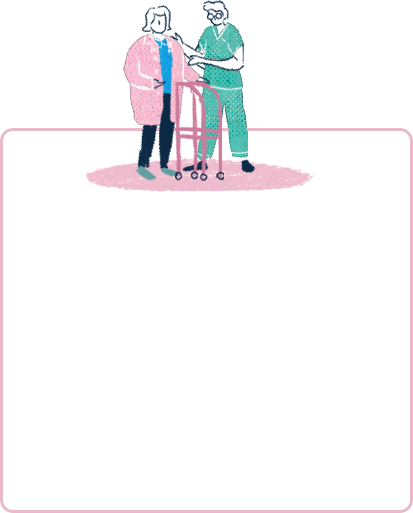
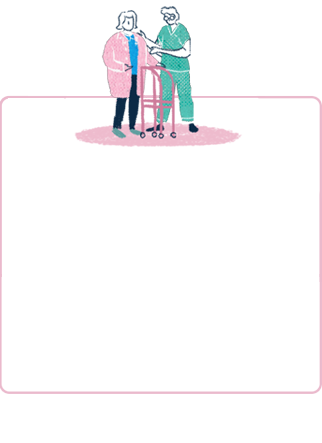
Avances SICBA descripcion-sicba.html

Changed region(s): [[0.0, 0.0, 1.0, 0.3815], [0.0, 0.6163, 1.0, 1.0]]

diff --git a/unlogged/descripcion-sicba.html b/unlogged/descripcion-sicba.html
@@ -86,31 +86,47 @@
         #definicion-cuidado{
             width: 350px
         }
-        .titulo_descripcion {font-weight: bold; font-size: 1.5em; }
-        .texto_descripcion {line-height: 1.4em; margin-top: 20px;}
+        .titulo_descripcion {font-weight: bold; font-size: 1.5em; }a
+        .texto_descripcion {line-height: 1.4em; }
         #sistema .titulo_descripcion { color: #3a4c9b; }
         #sistema .texto_descripcion { margin-top:20px; color: white; line-height: 1.4em; }
         .caja_textos {width:445px; max-width: 90vw}
         .bloque-vertical .caja_textos {min-width:445px; width: 700px; max-width: 90vw}
         .bloque-vertical .titulo_descripcion {text-align: center;}
-        #cuidado .titulo_descripcion { color: #ffffff; }
-        #cuidado .texto_descripcion { color: #435295; }
-        #objetivo .titulo_descripcion { color: #f1b048; }
+        #cuidado .titulo_descripcion { color: #ffffff; padding-bottom: 25px; }
+        #cuidado .texto_descripcion { color: #2e3a72; }
+        #objetivo .titulo_descripcion { color: #f1b048; padding-bottom: 25px; }
         #objetivo .texto_descripcion { color: #ffffff; }
-        .caja_descripcion_cajitas{
+        #dis .titulo_descripcion_caja_ilustrada {color: #f59678; }
+        #dis, #may, #nna .texto_descripcion {text-align: center; }
+        #may .titulo_descripcion_caja_ilustrada {color: #eaa9c1; }
+        #nna .titulo_descripcion_caja_ilustrada {color: #49c6ff; }
+
+         .caja_descripcion_cajitas{
             display:flex;
             flex-direction: column;
         }
         .caja_ilustrada{
             box-sizing: border-box;
-            padding: 30px;
-            padding-top: 220px;
-            width: 416px;
-            height: 525px;
+            padding: 20px;
+            padding-top: 160px;
+            width: 322px;
+            height: 425px;
+            background-repeat: no-repeat;
         }
-        .caja_ilustrada#dis{
+        
+        .titulo_descripcion_caja_ilustrada {font-weight: bold; font-size: 1.2em; padding-bottom: 15px; }
+
+        .caja_ilustrada#dis{ 
             background-image: url(img/objetivo_fondo_dis.png)
         }
+        .caja_ilustrada#may{
+            background-image: url(img/objetivo_fondo_may.png)
+        }
+        .caja_ilustrada#nna{
+            background-image: url(img/objetivo_fondo_nna.png)
+        }
+
     </style>
     <div id="contenido-descripcion">
         <div class="separacion"></div>
@@ -154,12 +170,30 @@
                 </div>
             </div>
             <div class="bloque-horizontal">
-                <div id="nna" class=caja_ilustrada>1
+                <div id="nna" class=caja_ilustrada>
+                    <div class="titulo_descripcion_caja_ilustrada">
+                        Personas con discapacidad 
+                    </div>
+                    <div class=texto_descripcion>
+                        Incluye a la población de 0 a 17 años, con foco especial en la primera infancia, con o sin cuidados parentales.
+
+                    </div>
+
                 </div>
-                <div id="may" class=caja_ilustrada>2
+                <div id="may" class=caja_ilustrada>
+                    <div class="titulo_descripcion_caja_ilustrada">
+                        Personas con discapacidad 
+                    </div>
+                    <div class=texto_descripcion>
+                        Comprende a las personas de más de 60 años que presenten dependencia de otros para poder llevar una vida plena
+                        (incluyendo actividades de autocuidado y/o aquellas que permiten una vida independiente); estén cuidados en sus
+                        domicilios o en instituciones.
+
+                    </div>
+
                 </div>
                 <div id="dis" class=caja_ilustrada>
-                    <div class="titulo_descripcion">
+                    <div class="titulo_descripcion_caja_ilustrada">
                         Personas con discapacidad 
                     </div>
                     <div class=texto_descripcion>
